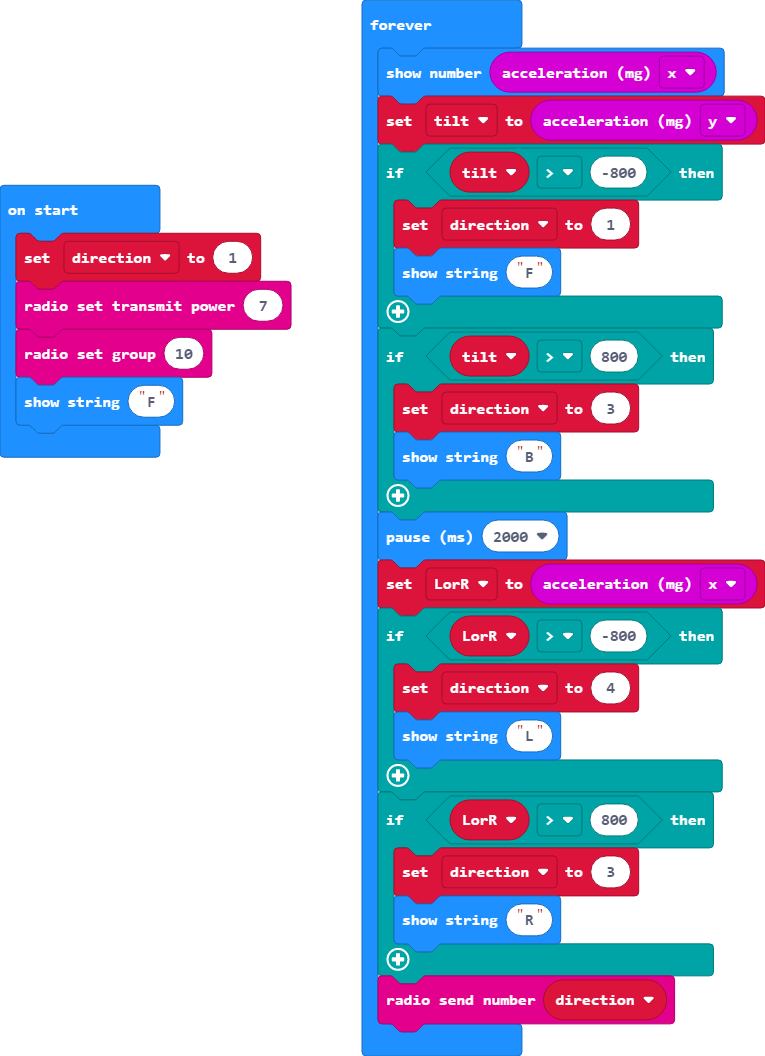
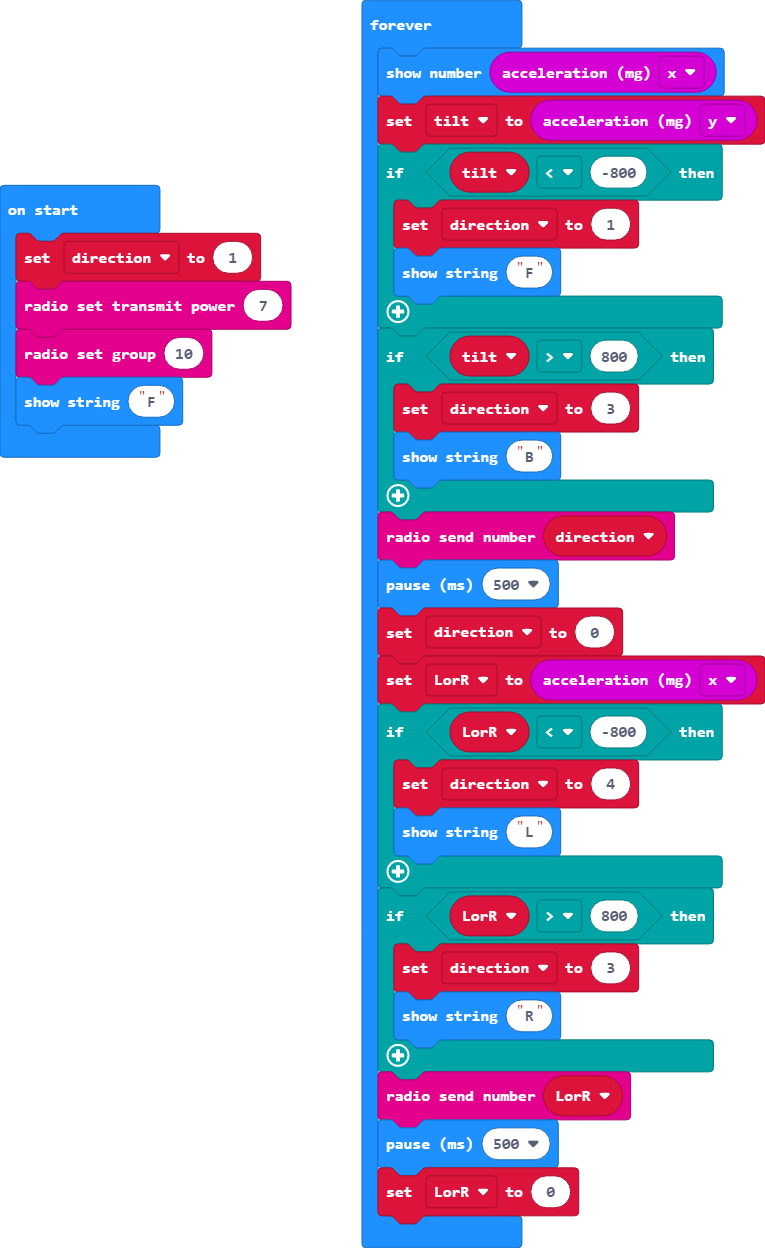
Update main.blocks, main.ts

diff --git a/main.ts b/main.ts
@@ -7,7 +7,7 @@ basic.showString("F")
 basic.forever(function () {
     basic.showNumber(input.acceleration(Dimension.X))
     tilt = input.acceleration(Dimension.Y)
-    if (tilt > -800) {
+    if (tilt < -800) {
         direction = 1
         basic.showString("F")
     }
@@ -15,9 +15,11 @@ basic.forever(function () {
         direction = 3
         basic.showString("B")
     }
-    basic.pause(2000)
+    radio.sendNumber(direction)
+    basic.pause(500)
+    direction = 0
     LorR = input.acceleration(Dimension.X)
-    if (LorR > -800) {
+    if (LorR < -800) {
         direction = 4
         basic.showString("L")
     }
@@ -25,5 +27,7 @@ basic.forever(function () {
         direction = 3
         basic.showString("R")
     }
-    radio.sendNumber(direction)
+    radio.sendNumber(LorR)
+    basic.pause(500)
+    LorR = 0
 })
